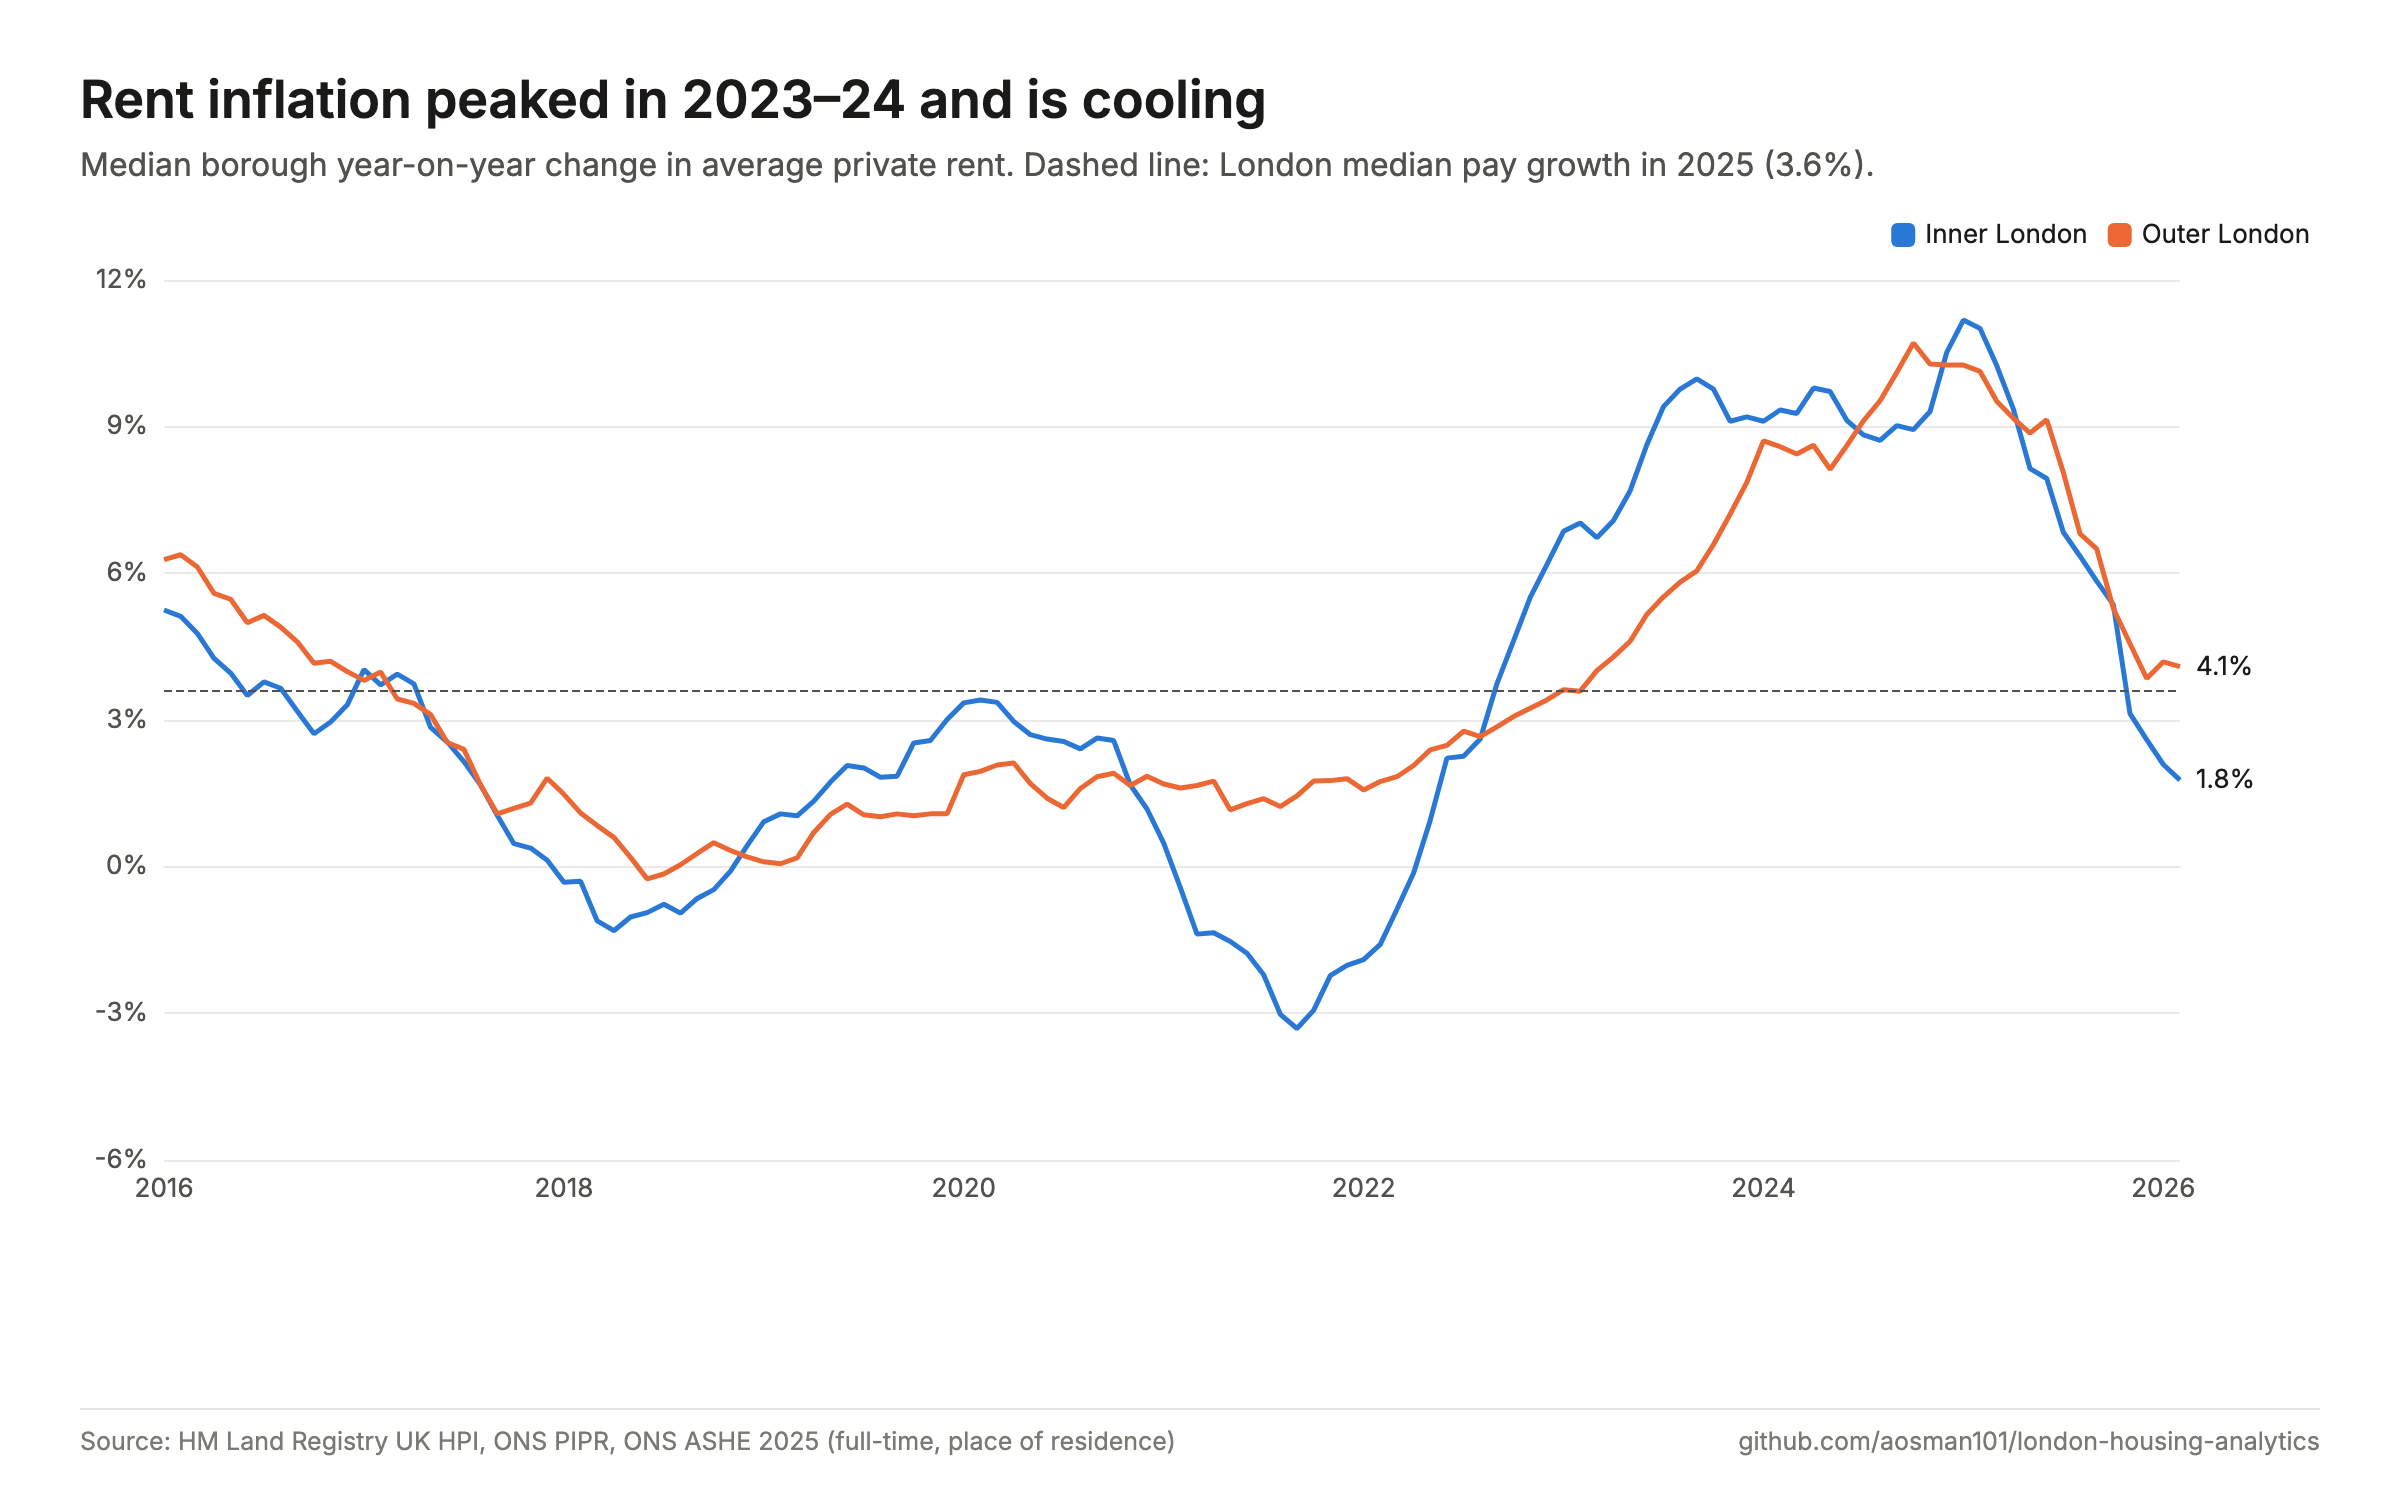
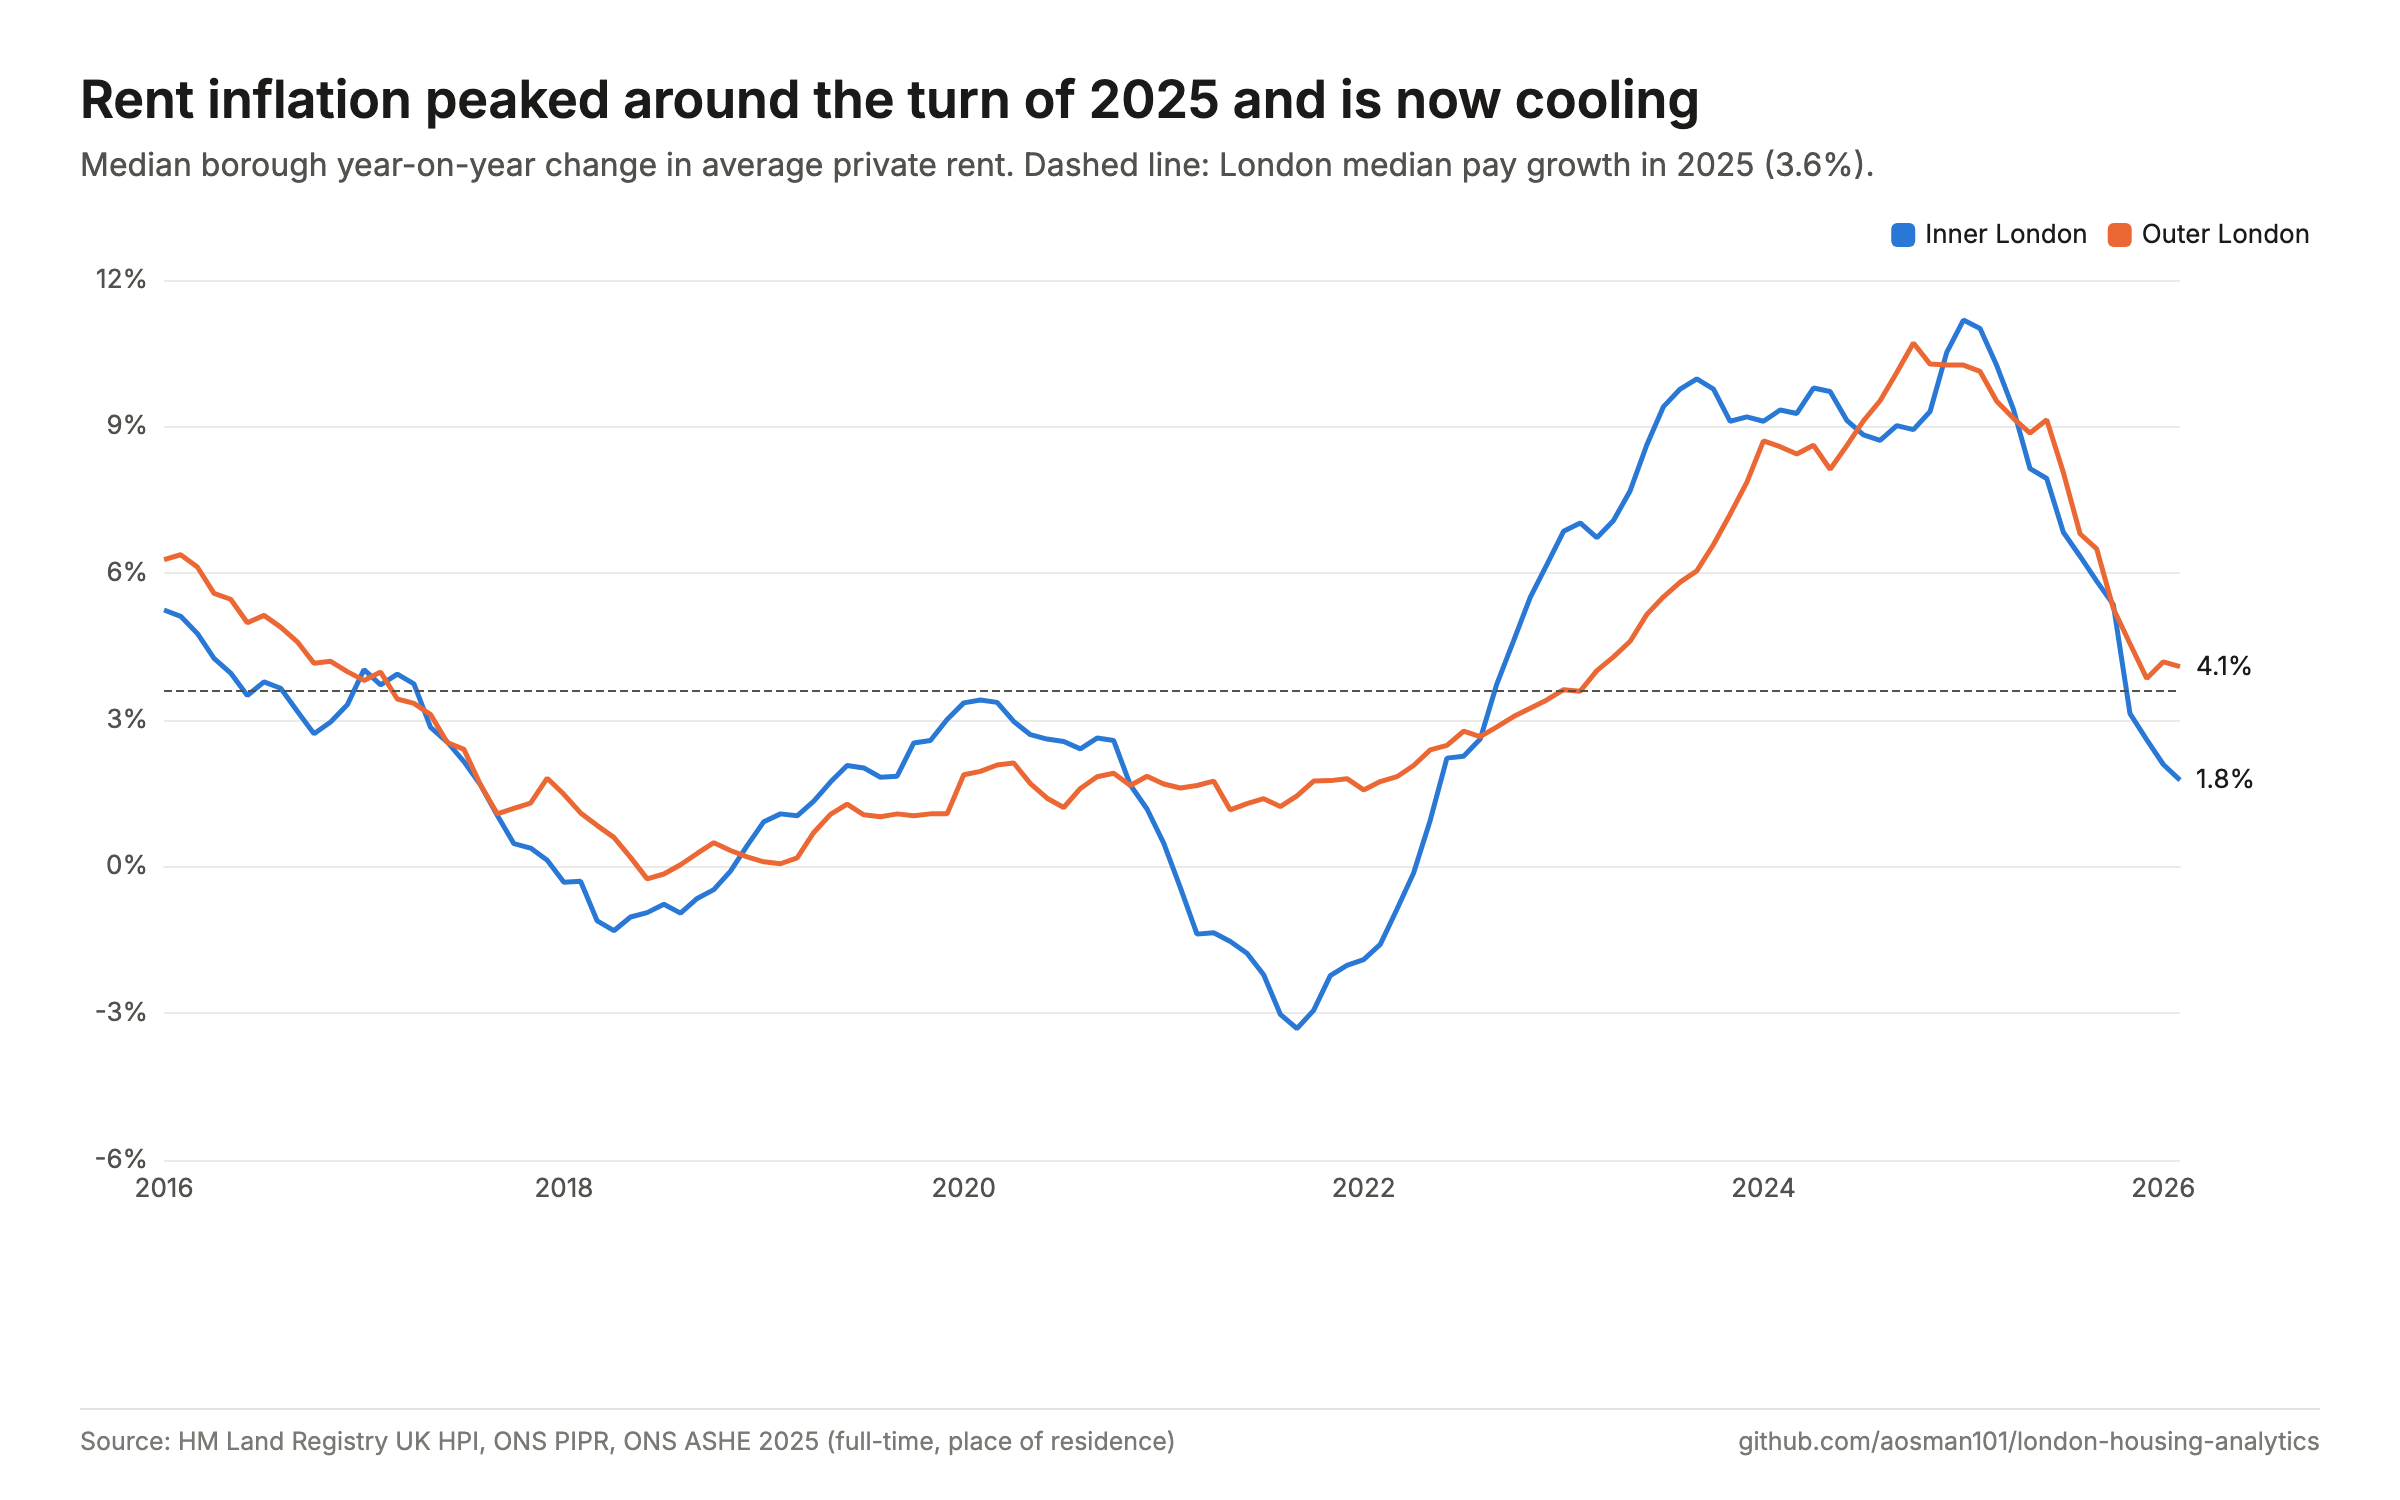
Update rent inflation title and refresh dashboard images for enhanced clarity

Changed region(s): [[0.25, 0.0307, 0.7188, 0.092]]

diff --git a/housing-analytics/dashboard/index.html b/housing-analytics/dashboard/index.html
@@ -371,7 +371,7 @@ V.rentgap = {
 };
 
 V.renttrend = {
-  title: () => 'Rent inflation peaked in 2023–24 and is cooling',
+  title: () => 'Rent inflation peaked around the turn of 2025 and is now cooling',
   desc: () => `Median borough year-on-year change in average private rent. Dashed line: London median pay growth in ${K.ashe_year} (${F.pct(K.london_pay_growth)}).`,
   option: () => {
     const months = D.months.filter(m => m >= '2016-01');
